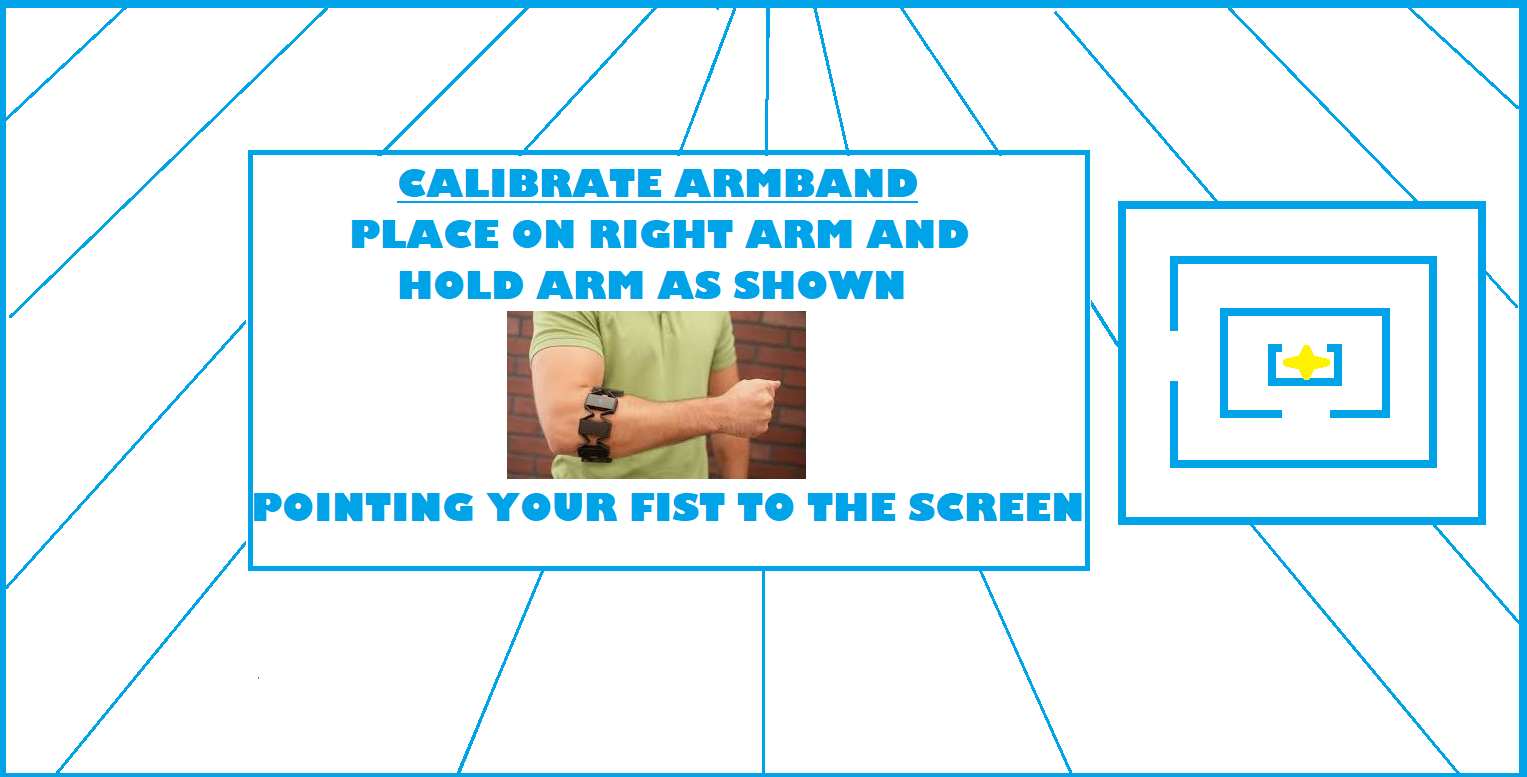
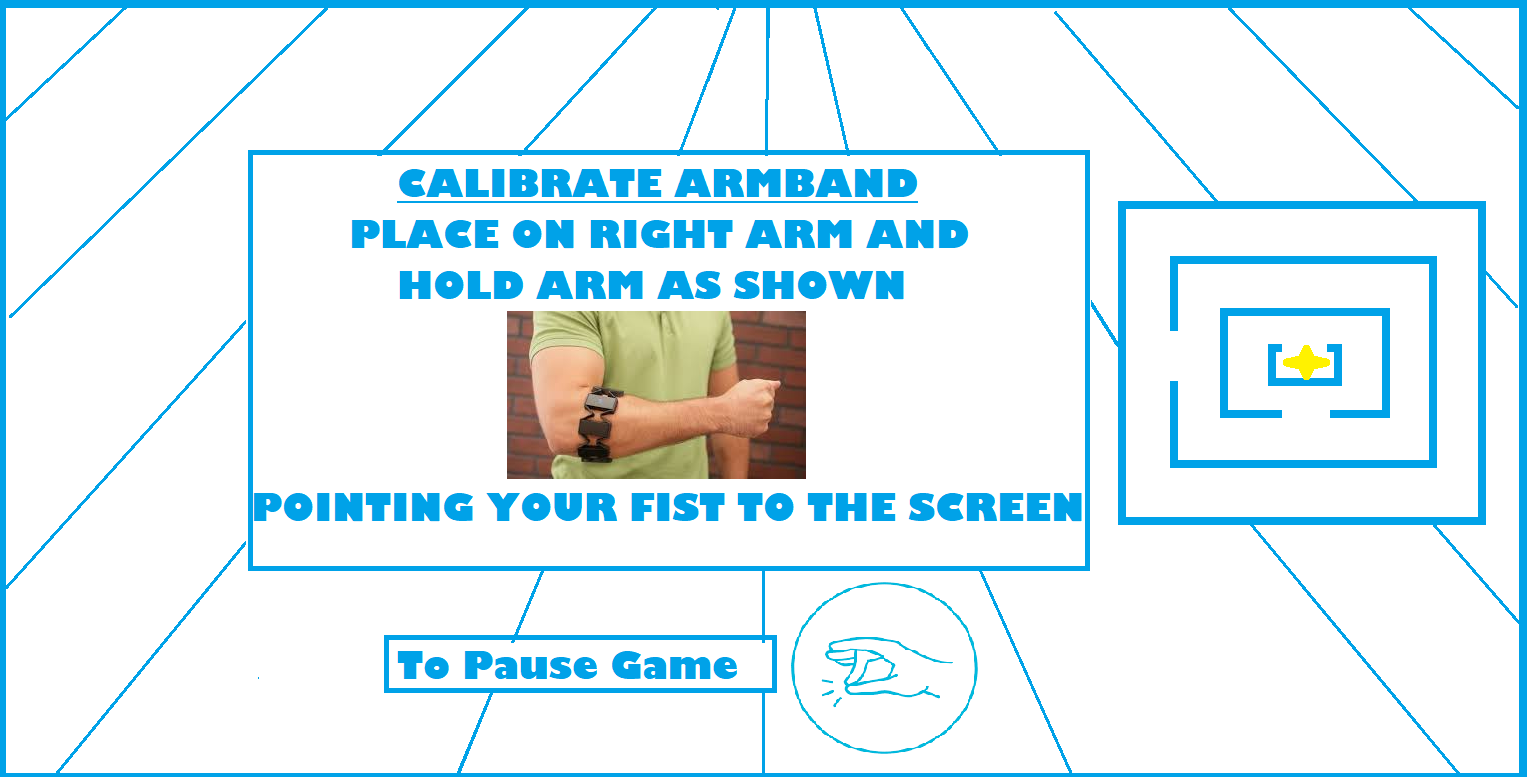
Updated readMe

diff --git a/README.md b/README.md
@@ -38,9 +38,80 @@ Unity is a cross-platform game engine developed by [Unity Technologies](https://
 
 # Purpose of the application<a name = "purpose"></a>
 
+For our application we decided to build a unity game using a Myo Armband as its controller. This would be our first attempt building a unity game and thought it would be a good addition to our github portfolio and our resume.
+
+The main purpose of the application (linking up a unity game with a Myo Armaband) is the fun aspect myo brings to it. You could easily control the game with a keyboard or even a mouse but using your own physical body to control your game control brought a real kick to the game.
+
+Taking on two new technologies is always tough so we kept the game concept simple. We created a Roller ball game. The user would navigate through a maze and collect tokens until all 12 tokens were collected. 
+
+Myo implementation was achieved by using the gyroscope within the myo armband to control the direction/movement of the ball object. The menu options were also controlled my the Myo Armband. We used the built in gestures to control Game stage control. eg Menu -> New Game or exit would be chosen using the default gestures.     
+
 [Top](#contents) 
 
 # Gestures identified as appropriate for this application<a name = "gestures"></a>
+
+As explained above we created a Roller Ball game.
+
+We used the default gestures the Myo Armband offers. These are:
+
+* Wave Left
+
+![wave-left](images/wave-in.gif)
+
+* Wave Right
+
+![wave-right](images/wave-out.gif)
+
+* Fist
+
+![Fist](images/fist.gif)
+
+* Double Tap
+
+![Double-Tap](images/double-tap.gif)
+
+* Fingers Spread
+
+![Finger-spread](images/finger-spread.gif)
+
+After downloading the Myo connect and using its set-up program, we got to test each of these gestures. Being able to tighten and loosen the armband around your armband allowed for more accurate results. After playing around with each gesture we eventually decided what gestures would suit our application the best. 
+
+In our Menu scene the user is offered 2 options:
+
+1. New Game 
+    Here we use the fist gesture as it works well and feels intuitive.
+2. Exit
+    Here we use the double-tap gesture. This requires double the action and speed, so it made sense to use as it would be hard to do by accident. This will close the application.
+
+As the game is being run the user can use one gesture:
+
+1. Double-tap
+    If you double-tap as the game is being played you will bring up the pause Menu. This was chosen again because this gesture requires double the action and speed, so it made sense to use as it would be hard to do by accident and very annoying mid-game if you kept pausing.
+
+In our Pause Menu the user has 3 options:
+
+1. New Game
+    Here we use the fist gesture as it works well and feels intuitive.
+2. Resume Game
+    Here we used the Spread-fingers gesture as it works well and feels like your dismissing your pause menu with your hand gesture.
+3. Exit Game
+    Here we use the double-tap gesture again. This requires double the action and speed, so it made sense to use as it would be hard to do by  accident. This will bring you back to the main menu.
+
+For our ball controller we used the gyroscope within our myo to control its direction.
+
+* Forward motion:
+Achieve this by holding your fore arm at a 80-90 degree angle to your body or lower. 
+
+* Backward motion:
+Achieve this by moving your fore arm up towards your chest. 
+
+* Right motion:
+Move your fore arm to the right in a rotation from your elbow.
+
+* Left motion:
+Move your fore arm to the left in a rotation from your elbow.
+
+We found this setup very effective. Only having trouble with configuring the gyroscope rotation to give more consistent figures.
 
 [Top](#contents) 
 
@@ -62,6 +133,21 @@ Or you can run our application in developer mode with the following prerequisite
 [Top](#contents) 
 
 # Conclusions & Recommendations<a name = "conclusion"></a>
+
+### Overall Outcome
+
+All in all we were happy with our finished project. We set out our objectives which were to create a unity game and implement a Myo Armband as its controller. We created an application with a easy to follow natural UI, A game that functions with our Myo gestures and all in all is quite enjoyable. 
+
+As it was our first time using these technologies it was a challenge and took time. Would of prefferred to have offered more game play options but thought it was more important to focus on a complete working implementation of our Myo/Unity Game. 
+
+### Issues
+We struggled at first getting our heads around unity but with tutorials we quickly learned. We also ran into some issues with unity IDE and also connecting to the Myo. Debugging and testing was tedious as Unity IDE kept freezing and would have to restart. We looked up Unity forums but it just seemed to be a common problem known in the unity community and we could not find a fix.
+
+This was also common with our Myo aswell. As for Myo there wasnt that much documentation on Myo and unity so we just worked with what we had and got through it. Hopefully in future these will be fixed.
+
+### What we learned
+
+We learned how powerful unity can be. For a free game developer platform edition it offers alot to a developer. We learned new concepts related to gaming. As for Myo we were quite surprised how well the gestures performed. The applications are endless and with the custom profile options you can develope your own gestures which are unique to you only. 
 
 [Top](#contents) 
 
